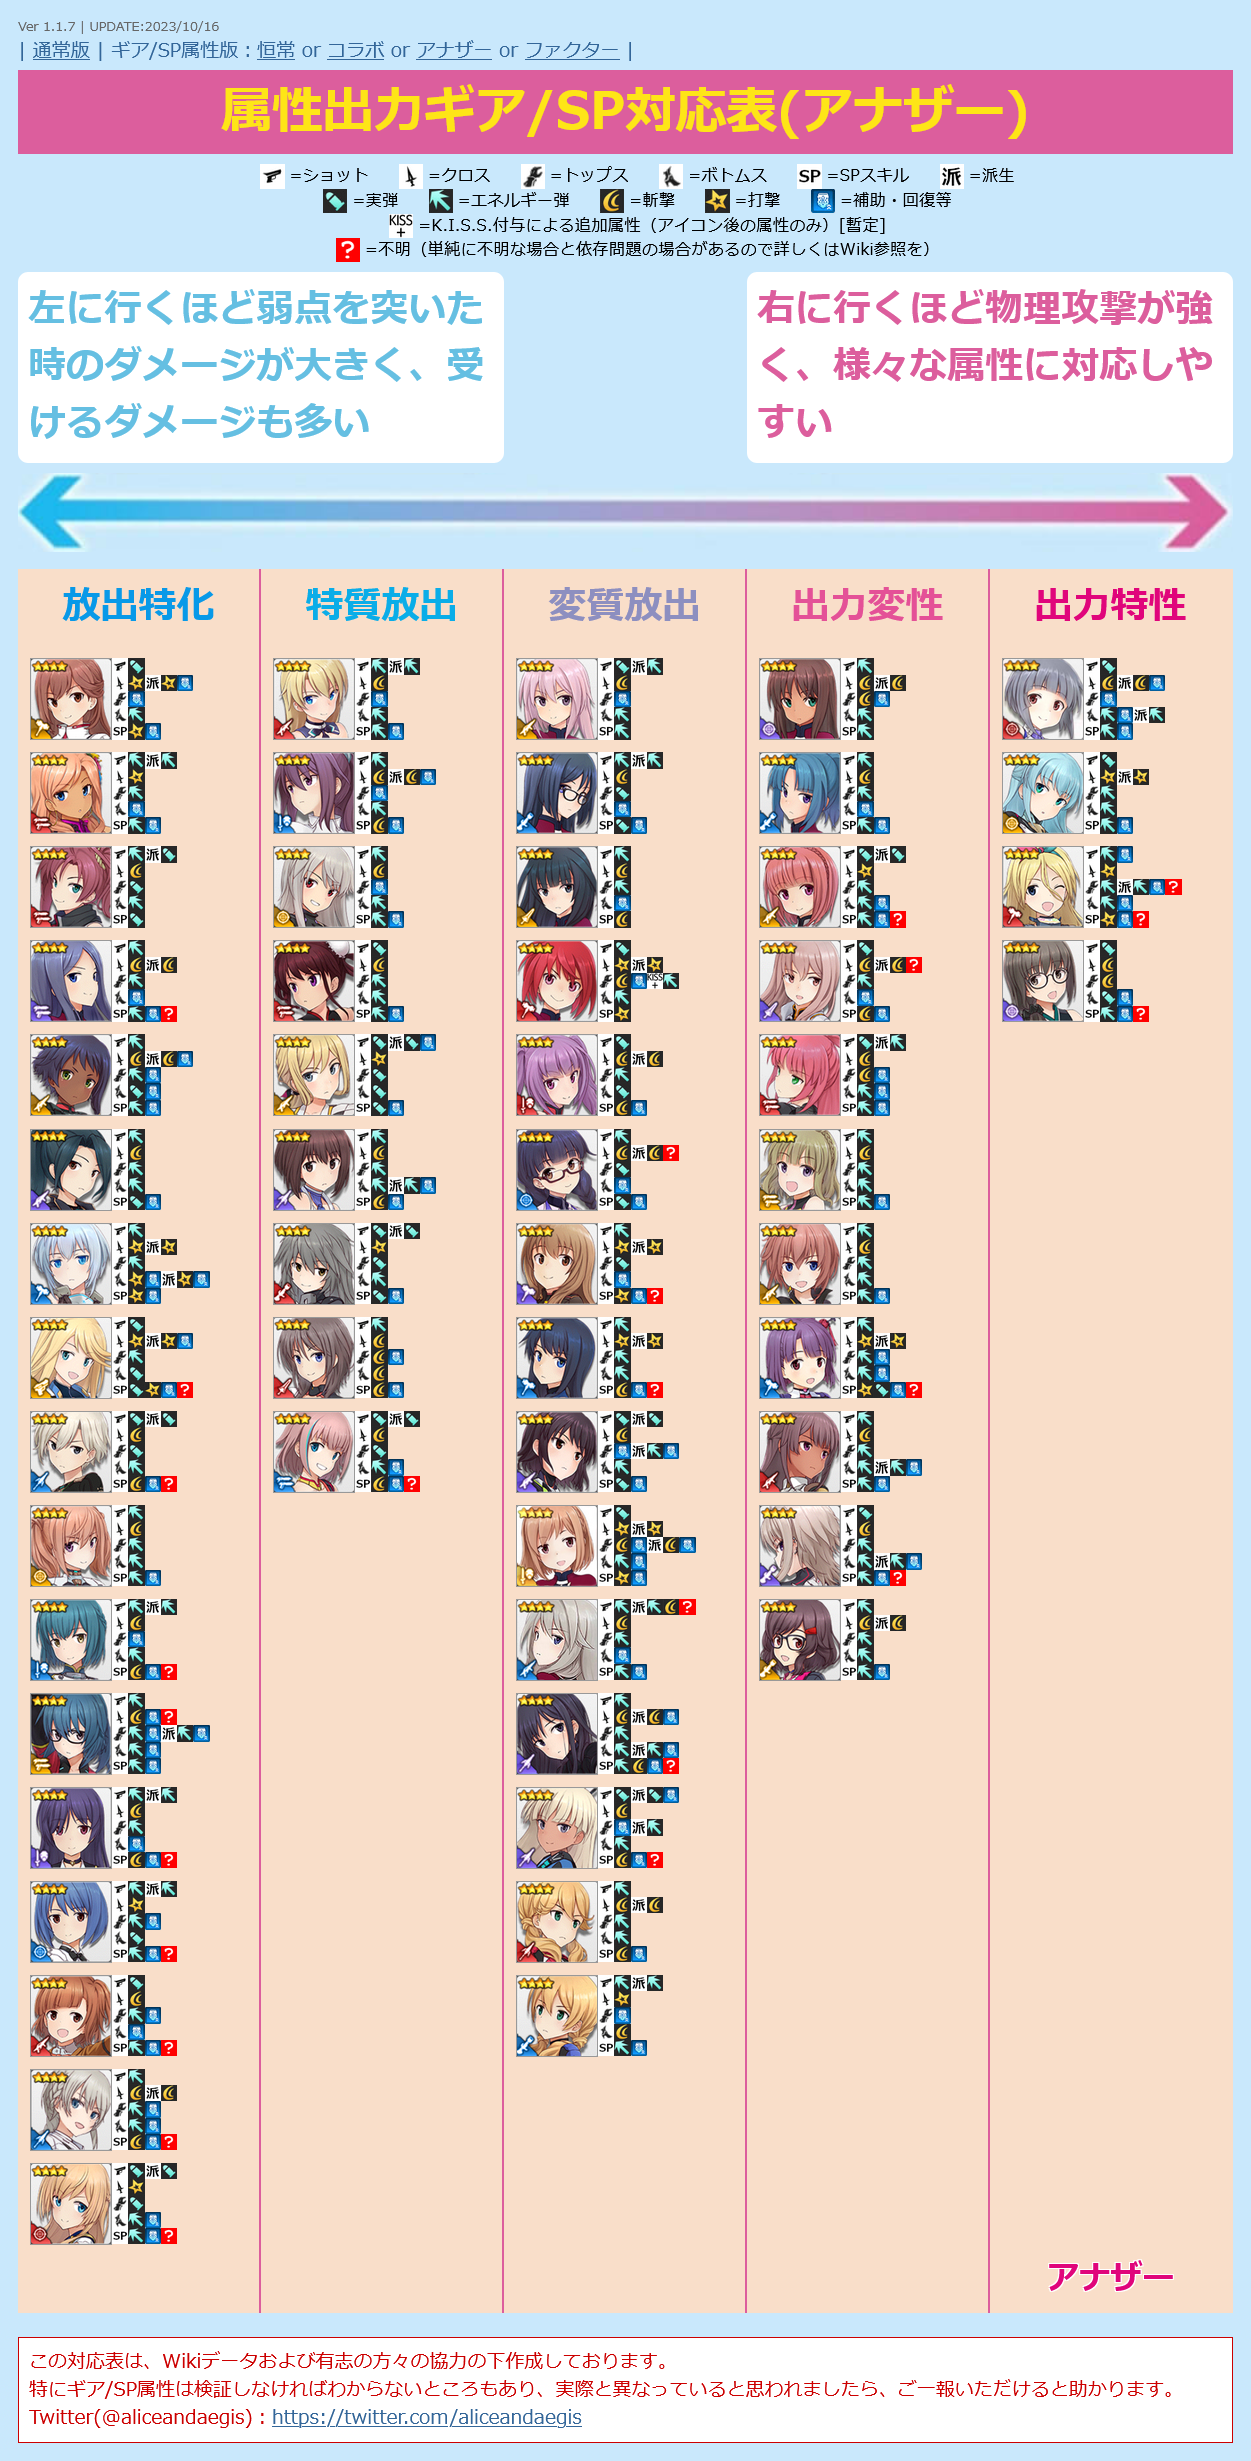
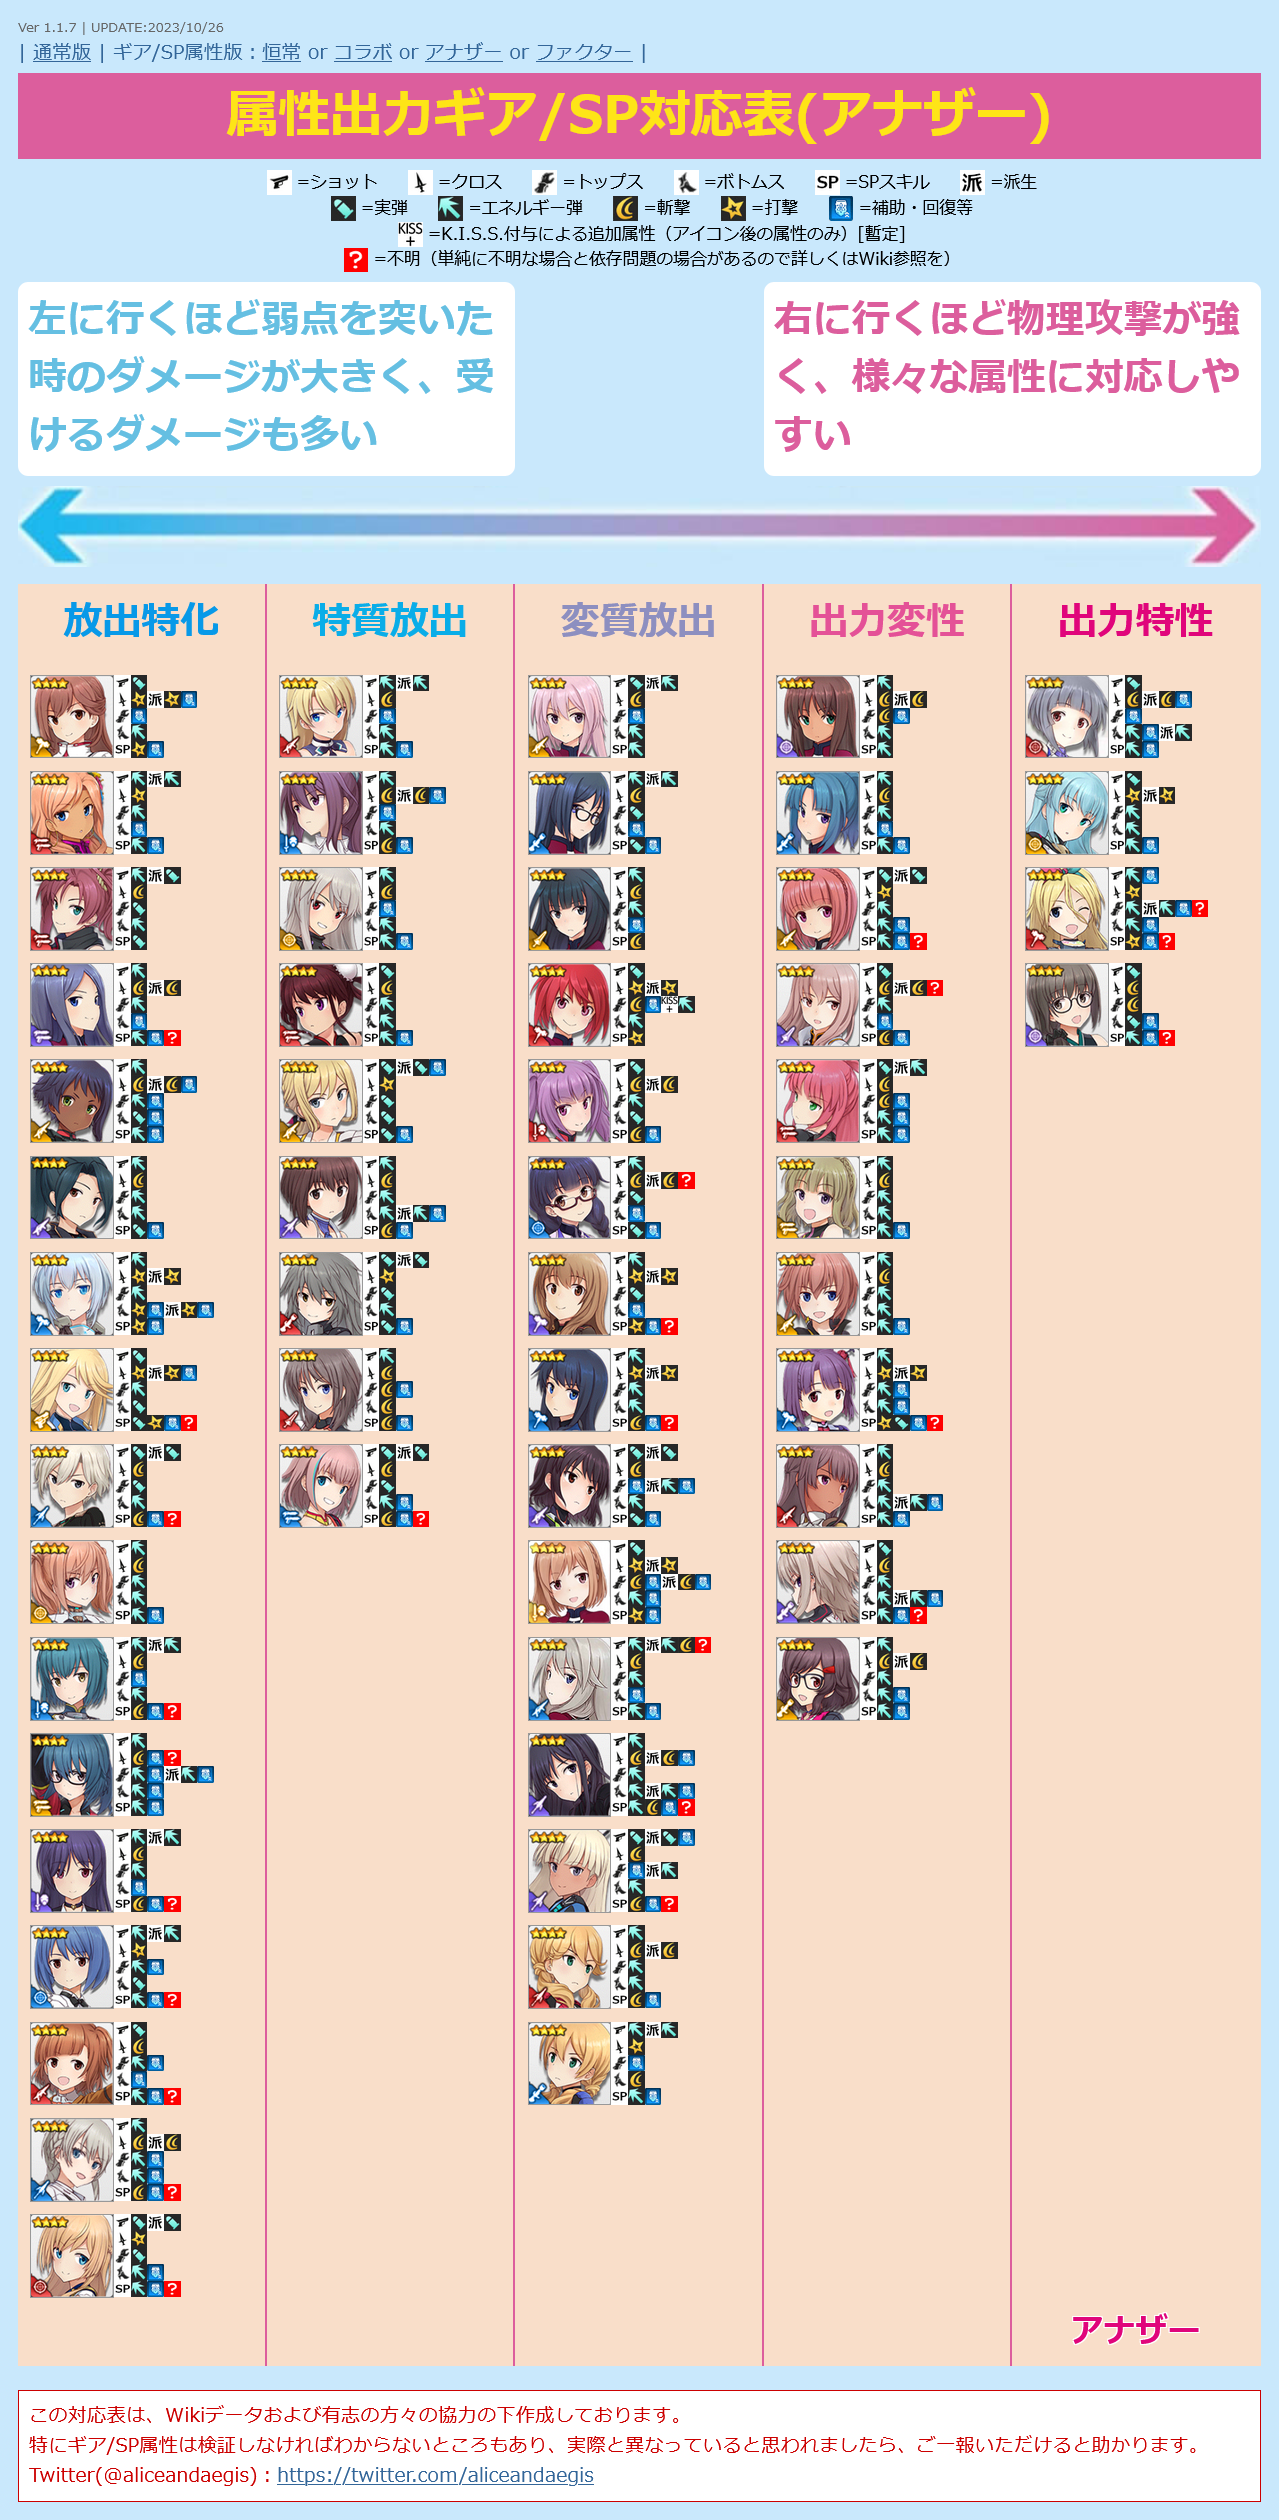
UPDATE charadata
・ノエル・フランシスカを追加

diff --git a/alice.html b/alice.html
@@ -12,7 +12,7 @@
   <script>
 
 /* 更新情報 必要に応じて書き換えてください */
-  var version = "Ver 1.1.7 | UPDATE:2023/10/16";
+  var version = "Ver 1.1.7 | UPDATE:2023/10/26";
 
 
 /*
@@ -1544,7 +1544,7 @@
       "equip1": "2",
       "equip2": "3/3",
       "equip3": "2",
-      "equip4": "2",
+      "equip4": "25",
       "sp": "3",
       "attr": "1",
       "link": "https://wikiwiki.jp/alicegear/%E5%8D%83%E5%B3%B6%E7%BE%8E%E5%B9%B8",
@@ -1558,7 +1558,7 @@
       "equip1": "2",
       "equip2": "3/3",
       "equip3": "2",
-      "equip4": "2",
+      "equip4": "25",
       "sp": "25",
       "attr": "1",
       "link": "https://wikiwiki.jp/alicegear/%E5%8D%83%E5%B3%B6%E7%BE%8E%E5%B9%B8%E5%B9%B8%E9%AD%82",
@@ -1940,6 +1940,20 @@
       "sp": "4?",
       "attr": "3",
       "link": "https://wikiwiki.jp/alicegear/%E9%A7%92%E6%B7%BB%E7%B5%B5%E4%BC%9D",
+      "category": ""
+    },
+    {
+      "id": "62",
+      "type": "2",
+      "src": "normal-noel.png",
+      "name": "ノエル・フランシスカ",
+      "equip1": "2?",
+      "equip2": "3?",
+      "equip3": "25?",
+      "equip4": "25?",
+      "sp": "25?",
+      "attr": "2",
+      "link": "https://wikiwiki.jp/alicegear/%E3%83%8E%E3%82%A8%E3%83%AB%E3%83%BB%E3%83%95%E3%83%A9%E3%83%B3%E3%82%B7%E3%82%B9%E3%82%AB",
       "category": ""
     },
     {
